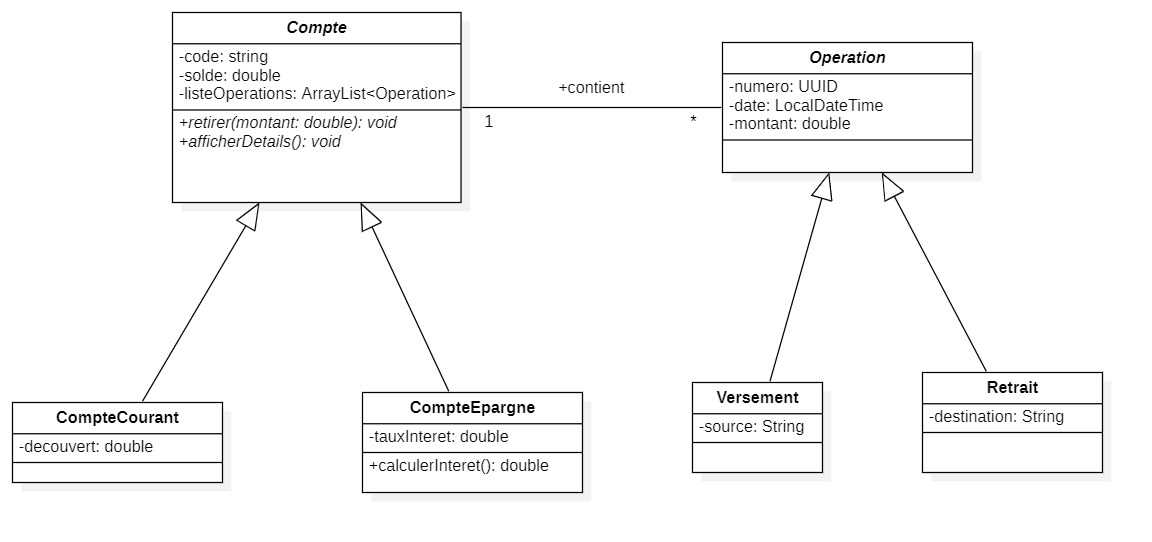
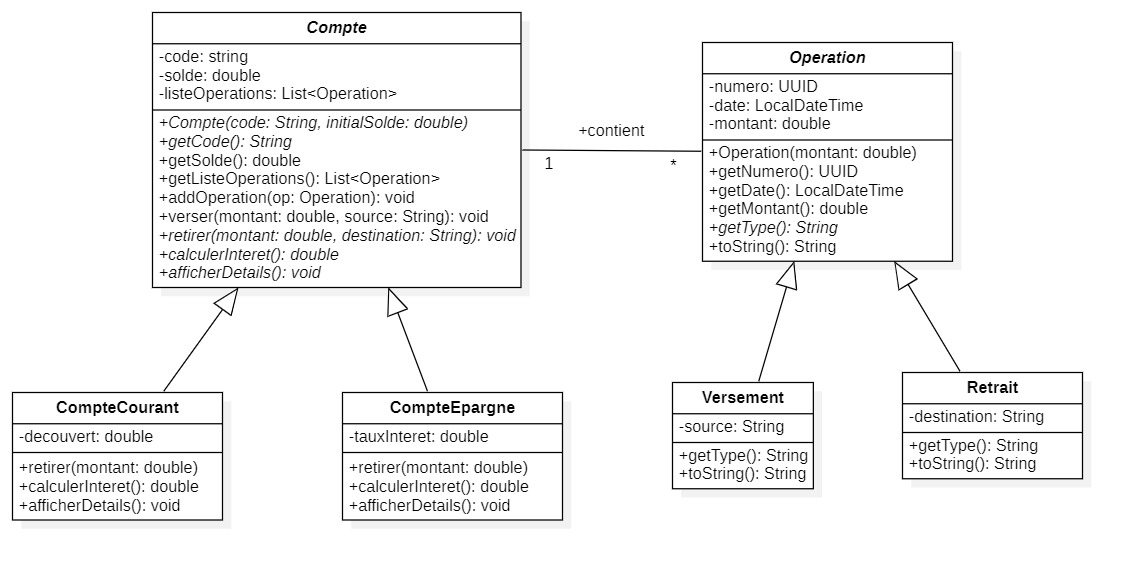
Le diagramme des classes

diff --git a/src/model/Retrait.java b/src/model/Retrait.java
@@ -1,0 +1,36 @@
+package model;
+
+public class CompteEpargne extends Compte {
+    private double tauxInteret; // e.g., 0.03 for 3%
+
+    public CompteEpargne(String code, double initialSolde, double tauxInteret) {
+        super(code, initialSolde);
+        if (tauxInteret < 0) throw new IllegalArgumentException("Taux d'intérêt doit être >= 0");
+        this.tauxInteret = tauxInteret;
+    }
+
+    public double getTauxInteret() {
+        return tauxInteret;
+    }
+
+    @Override
+    public void retirer(double montant, String destination) {
+        if (montant <= 0) throw new IllegalArgumentException("Montant doit être positif");
+        if (solde < montant) {
+            throw new IllegalArgumentException("Retrait refusé : solde insuffisant.");
+        }
+        solde -= montant;
+        Retrait r = new Retrait(montant, destination);
+        addOperation(r);
+    }
+
+    @Override
+    public double calculerInteret() {
+        return solde * tauxInteret;
+    }
+
+    @Override
+    public void afficherDetails() {
+        System.out.println("Compte Epargne - code: " + code + " | solde: " + solde + " | taux: " + tauxInteret);
+    }
+}

diff --git a/src/model/CompteCourant.java b/src/model/CompteCourant.java
@@ -1,0 +1,4 @@
+package model;
+
+public class CompteCourant {
+}

diff --git a/src/model/CompteEpargne.java b/src/model/CompteEpargne.java
@@ -1,0 +1,4 @@
+package model;
+
+public class CompteEpargne {
+}

diff --git a/src/service/BankService.java b/src/service/BankService.java
@@ -1,0 +1,4 @@
+package service;
+
+public class BankService {
+}

diff --git a/src/util/ValidationUtil.java b/src/util/ValidationUtil.java
@@ -1,0 +1,4 @@
+package util;
+
+public class ValidationUtil {
+}

diff --git a/src/model/Operation.java b/src/model/Operation.java
@@ -1,0 +1,4 @@
+package model;
+
+public class Operation {
+}

diff --git a/src/model/Versement.java b/src/model/Versement.java
@@ -1,0 +1,4 @@
+package model;
+
+public class Versement {
+}

diff --git a/src/util/Exceptions.java b/src/util/Exceptions.java
@@ -1,0 +1,4 @@
+package util;
+
+public class Exceptions {
+}

diff --git a/src/model/Compte.java b/src/model/Compte.java
@@ -1,0 +1,4 @@
+package model;
+
+public class Compte {
+}
